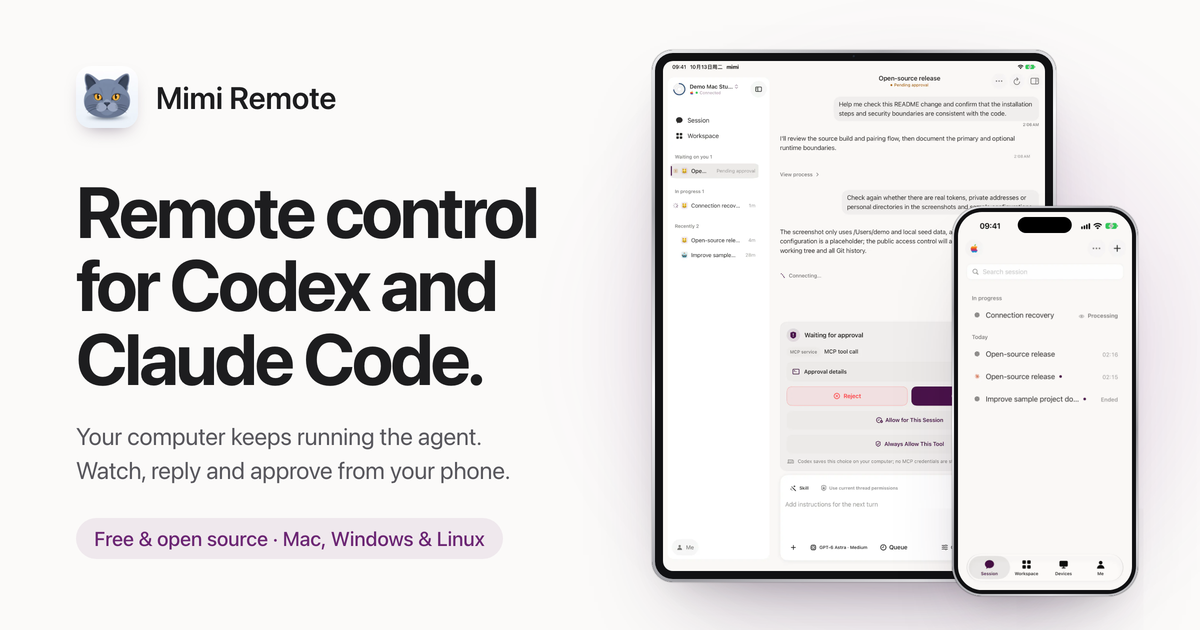
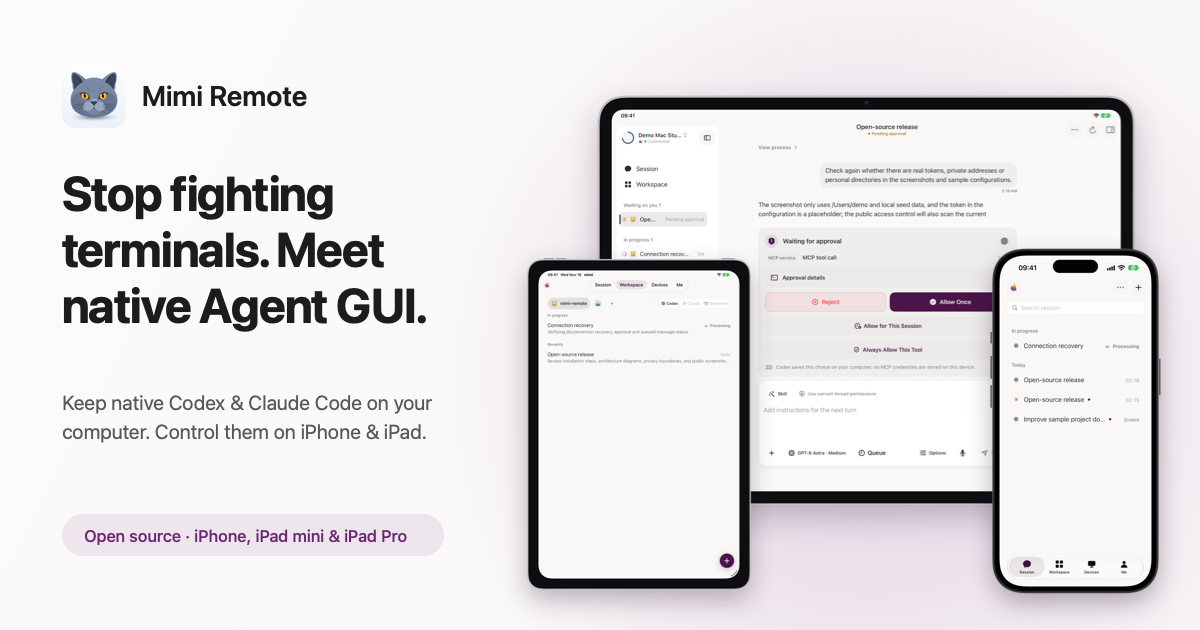
feat(web): sync 2.0.1 native Agent GUI copy, 3-device hero visuals, and Mimi Relay info

Changed region(s): [[0.0308, 0.0603, 0.9867, 0.9952], [0.0617, 0.1206, 0.2775, 0.2111], [0.0617, 0.8444, 0.4008, 0.8746]]

diff --git a/web/index.html b/web/index.html
@@ -3,8 +3,8 @@
 <head>
   <meta charset="utf-8" />
   <meta name="viewport" content="width=device-width, initial-scale=1, viewport-fit=cover" />
-  <title>Mimi Remote — Control Codex &amp; Claude Code from iPhone and iPad</title>
-  <meta name="description" content="Remote control for Codex and Claude Code. Your Mac, Windows or Linux computer runs the agent; you watch, reply and approve from iPhone and iPad. Open source." />
+  <title>Mimi Remote — Native Mobile Agent GUI for Codex &amp; Claude Code</title>
+  <meta name="description" content="Stop fighting terminals on tiny screens. Keep using native Codex and Claude Code on your Mac, Windows or Linux computer, and control them with a native touch GUI on iPhone and iPad. Open source." />
   <meta name="color-scheme" content="light dark" />
   <meta name="apple-itunes-app" content="app-id=6778076511" />
 
@@ -18,20 +18,20 @@
   <meta property="og:type" content="website" />
   <meta property="og:site_name" content="Mimi Remote" />
   <meta property="og:url" content="https://remote.code89757.com/" />
-  <meta property="og:title" content="Mimi Remote — Control Codex &amp; Claude Code from iPhone and iPad" />
-  <meta property="og:description" content="Remote control for Codex and Claude Code. Your computer keeps running the agent; you watch, reply and approve from iPhone and iPad." />
+  <meta property="og:title" content="Mimi Remote — Stop fighting terminals. Meet native Agent GUI." />
+  <meta property="og:description" content="No CLI typing on tiny screens, no reinventing the wheel. Keep native Codex &amp; Claude Code on your computer; control them with a native GUI on iPhone and iPad." />
   <meta property="og:locale" content="en_US" />
   <meta property="og:locale:alternate" content="zh_CN" />
-  <meta property="og:image" content="https://remote.code89757.com/assets/og.png?v=20261019-2" />
+  <meta property="og:image" content="https://remote.code89757.com/assets/og.png?v=20261119-1" />
   <meta property="og:image:type" content="image/png" />
   <meta property="og:image:width" content="1200" />
   <meta property="og:image:height" content="630" />
-  <meta property="og:image:alt" content="Mimi Remote on iPad and iPhone, with the headline “Remote control for Codex and Claude Code.”" />
+  <meta property="og:image:alt" content="Mimi Remote on iPad Pro 13-inch, iPad mini and iPhone 17 Pro, with the headline “Stop fighting terminals. Meet native Agent GUI.”" />
   <meta name="twitter:card" content="summary_large_image" />
-  <meta name="twitter:title" content="Mimi Remote — Control Codex &amp; Claude Code from iPhone and iPad" />
-  <meta name="twitter:description" content="Remote control for Codex and Claude Code. Your computer keeps running the agent; you watch, reply and approve from iPhone and iPad." />
-  <meta name="twitter:image" content="https://remote.code89757.com/assets/og.png?v=20261019-2" />
-  <meta name="twitter:image:alt" content="Mimi Remote on iPad and iPhone, with the headline “Remote control for Codex and Claude Code.”" />
+  <meta name="twitter:title" content="Mimi Remote — Stop fighting terminals. Meet native Agent GUI." />
+  <meta name="twitter:description" content="No CLI typing on tiny screens, no reinventing the wheel. Keep native Codex &amp; Claude Code on your computer; control them with a native GUI on iPhone and iPad." />
+  <meta name="twitter:image" content="https://remote.code89757.com/assets/og.png?v=20261119-1" />
+  <meta name="twitter:image:alt" content="Mimi Remote on iPad Pro 13-inch, iPad mini and iPhone 17 Pro, with the headline “Stop fighting terminals. Meet native Agent GUI.”" />
 
   <link rel="icon" type="image/png" sizes="64x64" href="./assets/favicon.png" />
   <link rel="apple-touch-icon" href="./assets/apple-touch-icon.png" />
@@ -57,7 +57,8 @@
         "operatingSystem": "iOS 18.0 or later, iPadOS 18.0 or later",
         "image": "https://remote.code89757.com/assets/app-icon.png",
         "screenshot": [
-          "https://remote.code89757.com/assets/shots/ipad-approval-en-light.webp",
+          "https://remote.code89757.com/assets/shots/ipad-landscape-approval-en-light.webp",
+          "https://remote.code89757.com/assets/shots/ipad-mini-workspaces-en-light.webp",
           "https://remote.code89757.com/assets/shots/iphone-sessions-en-light.webp"
         ],
         "downloadUrl": "https://apps.apple.com/app/id6778076511",
@@ -114,9 +115,9 @@
       if (!(window.matchMedia && matchMedia("(prefers-reduced-motion: reduce)").matches)) d.classList.add("has-reveal");
 
       /* Screenshots carry no src in the markup, so a Chinese or dark visit never downloads
-         English light copies first. Start the hero pair now at default priority, so they
+         English light copies first. Start the hero trio now at default priority, so they
          don't compete with the stylesheet; site.js sets every src. */
-      list = ["ipad-approval", "iphone-sessions"];
+      list = ["ipad-landscape-approval", "ipad-mini-workspaces", "iphone-sessions"];
       for (i = 0; i < list.length; i++) {
         link = document.createElement("link");
         link.rel = "preload";
@@ -126,7 +127,7 @@
       }
     })();
   </script>
-  <link rel="stylesheet" href="./styles.css?v=20261019-2" />
+  <link rel="stylesheet" href="./styles.css?v=20261119-1" />
 </head>
 <body>
   <a class="skip" href="#main" data-i18n="skip">Skip to content</a>
@@ -165,9 +166,9 @@
     <!-- ── Hero ─────────────────────────────────────────────────── -->
     <section class="hero">
       <div class="wrap">
-        <p class="hero__eyebrow reveal" data-i18n="hero.eyebrow">For iPhone &amp; iPad</p>
-        <h1 class="hero__title reveal" data-i18n="hero.title">Remote control for<br />Codex and Claude&nbsp;Code.</h1>
-        <p class="hero__lede reveal" data-i18n="hero.lede">Codex and Claude Code keep working on your Mac, Windows or Linux computer. From your iPhone or iPad, you watch the progress, reply and approve — no remote desktop, no terminal.</p>
+        <p class="hero__eyebrow reveal" data-i18n="hero.eyebrow">Native GUI for iPhone, iPad mini &amp; iPad Pro</p>
+        <h1 class="hero__title reveal" data-i18n="hero.title">Stop fighting terminals.<br />Meet native Agent&nbsp;GUI.</h1>
+        <p class="hero__lede reveal" data-i18n="hero.lede">No CLI typing on tiny screens, no reinventing the wheel — keep using native Codex and Claude Code on your Mac, Windows or Linux computer, and add a native touch GUI entry point on iPhone and iPad.</p>
         <div class="cta reveal">
           <a class="btn btn--primary btn--lg" href="https://apps.apple.com/app/id6778076511" target="_blank" rel="noopener noreferrer">
             <svg viewBox="0 0 24 24" aria-hidden="true"><path fill="currentColor" d="M16.37 1.43c0 1.14-.49 2.27-1.18 3.08-.74.9-1.99 1.57-2.99 1.57-.12 0-.23-.02-.3-.03-.01-.06-.04-.22-.04-.39 0-1.15.57-2.27 1.21-2.98.8-.94 2.14-1.64 3.25-1.68.03.13.05.28.05.43Zm4.56 15.71c-.03.07-.46 1.58-1.52 3.12-.94 1.34-1.94 2.71-3.43 2.71-1.52 0-1.9-.88-3.63-.88-1.7 0-2.3.91-3.67.91-1.38 0-2.33-1.26-3.43-2.8-1.29-1.82-2.32-4.63-2.32-7.28 0-4.28 2.8-6.55 5.55-6.55 1.45 0 2.68.95 3.6.95.87 0 2.22-1.01 3.9-1.01.61 0 2.89.06 4.37 2.19-.13.09-2.38 1.37-2.38 4.19 0 3.26 2.85 4.42 2.96 4.45Z"/></svg>
@@ -183,11 +184,17 @@
 
       <div class="wrap">
         <div class="stage reveal reveal--late">
-          <div class="device device--ipad stage__ipad">
-            <img data-shot="ipad-approval" width="1320" height="1760" fetchpriority="high"
-                 data-i18n-alt="alt.heroIpad" alt="Mimi Remote on iPad: the session sidebar beside a conversation waiting for approval." />
-            <noscript><img src="./assets/shots/ipad-approval-en-light.webp" width="1320" height="1760"
-                 alt="Mimi Remote on iPad: the session sidebar beside a conversation waiting for approval." /></noscript>
+          <div class="device device--ipad-landscape stage__ipad">
+            <img data-shot="ipad-landscape-approval" width="1760" height="1320" fetchpriority="high"
+                 data-i18n-alt="alt.heroIpad" alt="Mimi Remote on iPad Pro 13-inch in landscape: the session sidebar beside a conversation waiting for approval." />
+            <noscript><img src="./assets/shots/ipad-landscape-approval-en-light.webp" width="1760" height="1320"
+                 alt="Mimi Remote on iPad Pro 13-inch in landscape: the session sidebar beside a conversation waiting for approval." /></noscript>
+          </div>
+          <div class="device device--ipad-mini stage__mini">
+            <img data-shot="ipad-mini-workspaces" width="1008" height="1544"
+                 data-i18n-alt="alt.heroMini" alt="Mimi Remote on iPad mini: project workspaces and active sessions." />
+            <noscript><img src="./assets/shots/ipad-mini-workspaces-en-light.webp" width="1008" height="1544"
+                 alt="Mimi Remote on iPad mini: project workspaces and active sessions." /></noscript>
           </div>
           <div class="device device--phone stage__phone">
             <img data-shot="iphone-sessions" width="720" height="1565"
@@ -242,9 +249,9 @@
     <section class="section" id="remote">
       <div class="wrap">
         <header class="section__head section__head--center reveal">
-          <p class="eyebrow" data-i18n="handoff.eyebrow">Pick up where you left off</p>
-          <h2 class="h2" data-i18n="handoff.title">Start on your computer.<br />Keep it moving from your&nbsp;phone.</h2>
-          <p class="body" data-i18n="handoff.body">Mimi connects to the same Codex App Server as Codex Desktop and the Codex CLI. A thread started in any of them opens in the others with its history, context and running turn intact — no copy-paste, no re-explaining.</p>
+          <p class="eyebrow" data-i18n="handoff.eyebrow">No reinventing the wheel</p>
+          <h2 class="h2" data-i18n="handoff.title">Keep native apps on your computer.<br />Add one clean mobile&nbsp;entry.</h2>
+          <p class="body" data-i18n="handoff.body">On your computer, keep using the native Codex Desktop, Codex CLI or Claude Code you already love. Mimi connects to the same local runtime and adds a native mobile GUI entry point — history, context and running turns stay intact without copy-paste.</p>
         </header>
 
         <div class="panel handoff reveal">
@@ -451,7 +458,7 @@
       <div class="wrap feature feature--flip">
         <div class="feature__copy reveal">
           <p class="eyebrow" data-i18n="connect.eyebrow">Connection</p>
-          <h2 class="h2" data-i18n="connect.title">Same Wi-Fi at home.<br />Tailscale on the go.</h2>
+          <h2 class="h2" data-i18n="connect.title">Same Wi-Fi at home.<br />Tailscale or Mimi Relay on the go.</h2>
           <p class="body" data-i18n="connect.body">Mimi talks only to the computer you paired, over a trusted local network or your own Tailscale network. There's no Mimi cloud account, session hosting or application-level relay; the optional Tailcat route's transport relay is explained below. Pairing is a QR code on the computer, scanned once with your phone. Keep the computer service on a private network; don't expose it to the public Internet.</p>
           <ul class="routes" role="list">
             <li class="route">
@@ -464,7 +471,11 @@
             </li>
             <li class="route">
               <h3>Tailcat <span class="tag" data-i18n="tag.experimental">Experimental</span></h3>
-              <p data-i18n="route.tc">Mac, Windows and Linux, off by default. Lets your phone reach the computer without the Tailscale app.</p>
+              <p data-i18n="route.tc">Mac, Windows and Linux, off by default. Lets your phone reach the computer without the Tailscale app, using default or self-hosted relays.</p>
+            </li>
+            <li class="route">
+              <h3 data-i18n="route.mimiRelay.t">Mimi Relay <span class="tag" data-i18n="tag.optional">Optional</span></h3>
+              <p data-i18n="route.mimiRelay">Optional subscription in the mainland China App Store (7-day free trial) for end-to-end encrypted cross-network connections — no extra networking app required.</p>
             </li>
           </ul>
           <p class="privacy">
@@ -510,9 +521,9 @@
     <section class="section" id="compare">
       <div class="wrap">
         <header class="section__head section__head--center reveal">
-          <p class="eyebrow" data-i18n="compare.eyebrow">Compared with remote desktop and SSH</p>
-          <h2 class="h2" id="compare-title" data-i18n="compare.title">Not a remote desktop.<br />Not a terminal.</h2>
-          <p class="body" data-i18n="compare.body">Mimi Remote controls agent sessions only. To operate the whole computer or an arbitrary shell from your phone, a remote desktop or SSH client is the better fit.</p>
+          <p class="eyebrow" data-i18n="compare.eyebrow">Compared with remote desktop and SSH / TUI</p>
+          <h2 class="h2" id="compare-title" data-i18n="compare.title">Built for mobile touch.<br />Not a terminal in a tiny box.</h2>
+          <p class="body" data-i18n="compare.body">No typing commands or pinching terminal text on a phone. Mimi Remote turns agent threads into native touch cards, one-tap approvals and readable diffs — while leaving full-desktop or arbitrary shell tasks to remote desktop and SSH.</p>
         </header>
 
         <div class="cmp reveal">
@@ -608,11 +619,11 @@
           </details>
           <details class="qa">
             <summary data-i18n="faq.4.q">How do I connect when I'm not on the same network?</summary>
-            <p data-i18n="faq.4.a">Put your phone and computer on the same private network with Tailscale. Mac, Windows and Linux computers can also try the experimental Tailcat connection described under <a href="#connect">Connection</a>.</p>
+            <p data-i18n="faq.4.a">Use Tailscale or self-hosted Tailcat for free, or subscribe to optional Mimi Relay (available in the mainland China App Store with a 7-day free trial) for end-to-end encrypted cross-network connections without installing another networking tool. See <a href="#connect">Connection</a>.</p>
           </details>
           <details class="qa">
             <summary data-i18n="faq.5.q">Does it cost anything?</summary>
-            <p data-i18n="faq.5.a">The iPhone and iPad app and the computer software are free and open source, with no in-app purchases or subscriptions. Model usage counts against the Codex or Claude Code account on your computer.</p>
+            <p data-i18n="faq.5.a">The iPhone and iPad app and the computer software are free and open source. Local-network, Tailscale and self-hosted Tailcat connections remain free. In the mainland China App Store, an optional Mimi Relay subscription (¥18/month or ¥128/year, with a 7-day free trial) is available for managed encrypted relay across networks. Model usage counts against the Codex or Claude Code account on your computer.</p>
           </details>
           <details class="qa">
             <summary data-i18n="faq.6.q">How is this different from the official mobile remote features from OpenAI and Anthropic?</summary>
@@ -655,6 +666,6 @@
     </div>
   </footer>
 
-  <script src="./site.js?v=20261019-2"></script>
+  <script src="./site.js?v=20261119-1"></script>
 </body>
 </html>

diff --git a/web/site.js b/web/site.js
@@ -18,8 +18,8 @@
   /* ---------------------------------------------------------- 1. language */
 
   var ZH = {
-    "meta.title": "Mimi Remote — 用 iPhone、iPad 遥控 Codex 与 Claude Code",
-    "meta.description": "用手机遥控电脑上的 Codex 和 Claude Code。Agent 继续在你的 Mac、Windows 或 Linux 电脑上运行，你在 iPhone、iPad 上看进度、回消息、批权限。开源免费。",
+    "meta.title": "Mimi Remote — 拒绝手机搓终端，这才是移动 Agent",
+    "meta.description": "不用敲命令，也不重复造轮子：电脑端继续使用原生的 Codex 与 Claude Code，iPhone 与 iPad 多一个原生触控 GUI 入口，看进度、回消息、一键批权限。开源免费。",
 
     "skip": "跳到正文",
 
@@ -30,9 +30,9 @@
     "nav.faq": "常见问题",
     "nav.get": "下载",
 
-    "hero.eyebrow": "iPhone 与 iPad App",
-    "hero.title": "用手机，遥控电脑上的<br>Codex 和 Claude&nbsp;Code。",
-    "hero.lede": "Codex 和 Claude Code 继续在你的 Mac、Windows 或 Linux 电脑上干活。你在 iPhone、iPad 上看进度、回消息、批权限——不用远程桌面，也不用敲终端。",
+    "hero.eyebrow": "iPhone、iPad mini 与 iPad Pro 原生 GUI",
+    "hero.title": "拒绝手机搓终端，<br>这才是移动 Agent。",
+    "hero.lede": "不用在手机小屏上敲代码，也不重复造轮子——电脑端照样用各家原生的 Codex 与 Claude Code，iPhone 和 iPad 只是多一个完整适配触控的原生 GUI 入口。",
     "cta.appstore": "在 App Store 下载",
     "cta.testflight": "加入 TestFlight 测试",
     "cta.host": "下载电脑端",
@@ -52,9 +52,9 @@
     "ov.6.t": "局域网或 Tailscale",
     "ov.6.n": "Mac、Windows 与 Linux 还可试用 Tailcat：实验性、默认关闭，初次握手经第三方中继。",
 
-    "handoff.eyebrow": "接着电脑上的会话",
-    "handoff.title": "在电脑上开始，<br>在手机上接着推进。",
-    "handoff.body": "Mimi 与 Codex Desktop、Codex CLI 连接同一个 App Server。在任何一端开始的会话，另一端都能直接打开——历史、上下文和正在运行的任务一样不少。不用复制粘贴，也不用重新交代背景。",
+    "handoff.eyebrow": "不重复造轮子",
+    "handoff.title": "电脑照用原生 App，<br>移动端多一个顺手入口。",
+    "handoff.body": "在电脑上继续使用各家原生的 Codex Desktop、Codex CLI 或 Claude Code，不用迁账号、也不用换工作流。Mimi 直连同一套本地运行时，为手机和平板补上一个原生 GUI 入口——历史、上下文和正在运行的任务无缝衔接。",
     "term.user": "帮我检查这次 README 改动，确认安装步骤和安全边界与代码一致。",
     "term.agent": "我会核对源码构建和配对流程，并把主运行时与可选运行时的边界拆开说明。",
     "handoff.link": "同一个会话",
@@ -111,22 +111,25 @@
     "agent.claude": "会话与审批，控制项少于 Codex。",
     "agent.deepseek": "可选接入：文本会话与实时进度。",
     "tag.experimental": "实验性",
+    "tag.optional": "可选",
 
     "connect.eyebrow": "连接",
-    "connect.title": "在家走局域网，<br>出门用 Tailscale。",
-    "connect.body": "Mimi 只连接你配对的电脑，走可信的局域网或你自己的 Tailscale 网络。没有 Mimi 云账号、会话托管或应用层中转；可选的 Tailcat 路线会经过传输中继，见下文说明。配对只需在电脑上显示二维码、用手机扫一下。电脑端服务只应在私有网络中访问，不要暴露到公网。",
+    "connect.title": "在家走局域网，<br>出门用 Tailscale 或 Mimi 中转。",
+    "connect.body": "Mimi 只连接你配对的电脑，走可信的局域网或你自己的 Tailscale 网络。没有 Mimi 云账号、会话托管或应用层中转；可选的 Tailcat 与 Mimi 中转均采用端到端加密传输，说明见下文。配对只需在电脑上显示二维码、用手机扫一下。电脑端服务只应在私有网络中访问，不要暴露到公网。",
     "route.lan.t": "局域网",
     "route.lan": "在可信的局域网里直接连接，不需要任何额外设置。",
     "route.ts": "已经在用 tailnet？直接连就行。",
-    "route.tc": "支持 Mac、Windows 与 Linux，默认关闭。开启后手机不装 Tailscale 也能连到电脑。",
+    "route.tc": "支持 Mac、Windows 与 Linux，默认关闭。开启后手机不装 Tailscale 也能连到电脑，支持默认或自建中继。",
+    "route.mimiRelay.t": "Mimi 中转 <span class=\"tag\">可选</span>",
+    "route.mimiRelay": "中国大陆 App Store 可选订阅（支持 7 天免费试用），免装额外组网工具，跨网络端到端加密直连或经中继转发。",
     "connect.tailcat": "每次 Tailcat 连接都会先通过 DERP 中继发现对端并完成初始握手，随后在网络允许时将端到端加密的流量切换为直连；无法直连时继续经中继转发。即使随后直连，中继也会处理建立连接所需的网络元数据。默认中继由 Tailscale 运营，不由 Mimi Remote 运营，也可以在电脑上改为自建中继。",
     "route.direct": "直连",
     "route.relay": "必要时经加密中继",
     "route.computer": "你的电脑",
 
-    "compare.eyebrow": "和远程桌面、SSH 终端比",
-    "compare.title": "不是远程桌面，<br>也不是终端。",
-    "compare.body": "Mimi Remote 只遥控 Agent 会话。要在手机上操作整台电脑或任意命令行，远程桌面和 SSH 终端更合适。",
+    "compare.eyebrow": "和远程桌面、SSH / TUI 终端比",
+    "compare.title": "为移动端完整适配，<br>不用在小屏里搓终端。",
+    "compare.body": "不用在手机上敲命令或捏合缩放终端字符。Mimi Remote 把 Agent 会话排成原生触控卡片、一键审批和清晰 Diff；至于操作整台电脑或任意命令行，仍由远程桌面和 SSH 终端胜任。",
     "cmp.rd": "远程桌面",
     "cmp.1.t": "手机上看到什么",
     "cmp.1.rd": "整个电脑屏幕，要放大才看得清",
@@ -164,9 +167,9 @@
     "faq.3.q": "会话保存在哪里？",
     "faq.3.a": "在你的电脑上，由 Codex、Claude Code 或 DeepSeek Harness 自己保存。Mimi Remote 没有云账号，也不托管会话。",
     "faq.4.q": "不在同一个网络时怎么连？",
-    "faq.4.a": "用 Tailscale 让手机和电脑处在同一个私有网络。Mac、Windows 与 Linux 电脑也可以试用实验性的 Tailcat 连接，说明见<a href=\"#connect\">连接</a>一节。",
+    "faq.4.a": "可以免费使用 Tailscale 或自建 Tailcat；中国大陆 App Store 也提供可选的「Mimi 中转」订阅（7 天免费试用），免装额外组网工具即可跨网络端到端加密连接，说明见<a href=\"#connect\">连接</a>一节。",
     "faq.5.q": "收费吗？",
-    "faq.5.a": "App 和电脑端都免费、开源，没有内购和订阅。模型用量算在你电脑上 Codex 或 Claude Code 使用的账号上。",
+    "faq.5.a": "App 和电脑端都开源免费，局域网、Tailscale 与自建 Tailcat 连接继续免费。中国大陆 App Store 额外提供可选的「Mimi 中转」订阅（¥18/月 或 ¥128/年，含 7 天免费试用），用于跨网络托管加密中继。模型用量仍算在你电脑上 Codex 或 Claude Code 使用的账号上。",
     "faq.6.q": "和 OpenAI、Anthropic 官方的手机远程功能有什么不同？",
     "faq.6.a": "官方功能各自服务自家的 Agent。Mimi Remote 在一个 App 里同时连接 Codex 和 Claude Code（以及 DeepSeek Harness），电脑可以是 Mac、Windows 或 Linux，能在多台之间切换，iPad 上是多栏工作台，代码全部开源。官方功能更新很快，按你使用的工具和账号选择即可。",
 
@@ -179,7 +182,8 @@
     "footer.support": "支持",
     "footer.fine": "Mimi Remote 是独立的开源项目，与 OpenAI、Anthropic、DeepSeek、Tailscale 均无关联。",
 
-    "alt.heroIpad": "iPad 上的 Mimi Remote：左侧是会话侧栏，右侧对话正在等待审批。",
+    "alt.heroIpad": "横屏 iPad Pro 13 英寸上的 Mimi Remote：左侧是会话侧栏，右侧对话正在等待审批。",
+    "alt.heroMini": "iPad mini 上的 Mimi Remote：项目工作区与活跃会话。",
     "alt.heroPhone": "iPhone 上的会话列表，进行中的任务排在最上方。",
     "alt.handoff": "同一段对话，在 iPhone 上接着进行。",
     "alt.control": "对话中的审批卡片：拒绝、仅允许一次、本会话允许、始终允许此工具。",

diff --git a/web/styles.css b/web/styles.css
@@ -188,15 +188,21 @@ svg { flex: none; }
 
 .stage {
   position: relative; isolation: isolate;
-  max-width: 900px; margin: clamp(56px, 8vw, 96px) auto 0; padding-bottom: clamp(24px, 4vw, 48px);
+  max-width: 1020px; margin: clamp(56px, 8vw, 96px) auto 0; padding-bottom: clamp(32px, 5vw, 64px);
 }
 .stage::before {
-  content: ""; position: absolute; z-index: -1; inset: 14% 2% 6%;
+  content: ""; position: absolute; z-index: -1; inset: 12% 2% 6%;
   background: radial-gradient(closest-side, var(--accent-glow), transparent);
-  filter: blur(24px);
+  filter: blur(28px);
 }
-.stage__ipad { width: 62%; margin-left: 11%; }
-.device.stage__phone { position: absolute; right: 7%; bottom: clamp(24px, 4vw, 48px); width: 24%; }
+.stage__ipad { width: 70%; margin-left: 16%; }
+.device.stage__mini { position: absolute; left: 2%; bottom: clamp(20px, 3.5vw, 44px); z-index: 2; width: 27%; }
+.device.stage__phone { position: absolute; right: 3%; bottom: clamp(16px, 3vw, 38px); z-index: 3; width: 22.5%; }
+@media (max-width: 640px) {
+  .stage__ipad { width: 88%; margin-left: 6%; }
+  .device.stage__mini { left: 1%; width: 30%; bottom: clamp(12px, 3vw, 24px); }
+  .device.stage__phone { right: 1%; width: 25%; bottom: clamp(10px, 2.5vw, 20px); }
+}
 
 /* -------------------------------------------------------------- devices */
 
@@ -229,7 +235,7 @@ svg { flex: none; }
 .device--phone::before { padding: 0.95%; }
 .device--phone::after { width: 29.3%; aspect-ratio: 126 / 37; margin-top: 5.86%; border-radius: 999px; }
 .device--phone img { width: 93.4%; margin: 3.3%; border-radius: 13.7% / 6.3%; }
-/* iPad Pro 13": 2064 × 2752 screen, bezel 2.6% of the width, camera centred in the top bezel */
+/* iPad Pro 13" (portrait): 2064 × 2752 screen, bezel 2.6% of the width, camera centred in the top bezel */
 .device--ipad { border-radius: 5.1% / 3.85%; }
 .device--ipad::before { padding: 0.7%; }
 .device--ipad::after {
@@ -237,6 +243,22 @@ svg { flex: none; }
   background: radial-gradient(circle at 35% 35%, #2C3440, #0A0C10 70%);
 }
 .device--ipad img { width: 94.8%; margin: 2.6%; border-radius: 2.6% / 1.95%; }
+/* iPad Pro 13" (landscape): 2752 × 2064 screen, landscape top camera */
+.device--ipad-landscape { border-radius: 4.5% / 5.95%; }
+.device--ipad-landscape::before { padding: 0.55%; }
+.device--ipad-landscape::after {
+  width: 0.65%; aspect-ratio: 1; margin-top: 1.1%; border-radius: 50%;
+  background: radial-gradient(circle at 35% 35%, #2C3440, #0A0C10 70%);
+}
+.device--ipad-landscape img { width: 95.2%; margin: 2.4%; border-radius: 2.1% / 2.8%; }
+/* iPad mini 8: 1512 × 2316 screen, slightly thicker proportional bezel & rounded corners */
+.device--ipad-mini { border-radius: 7.4% / 4.9%; }
+.device--ipad-mini::before { padding: 0.85%; }
+.device--ipad-mini::after {
+  width: 0.9%; aspect-ratio: 1; margin-top: 2.1%; border-radius: 50%;
+  background: radial-gradient(circle at 35% 35%, #2C3440, #0A0C10 70%);
+}
+.device--ipad-mini img { width: 90.8%; margin: 4.6%; border-radius: 3.4% / 2.25%; }
 
 /* ------------------------------------------------------------- overview */
 
